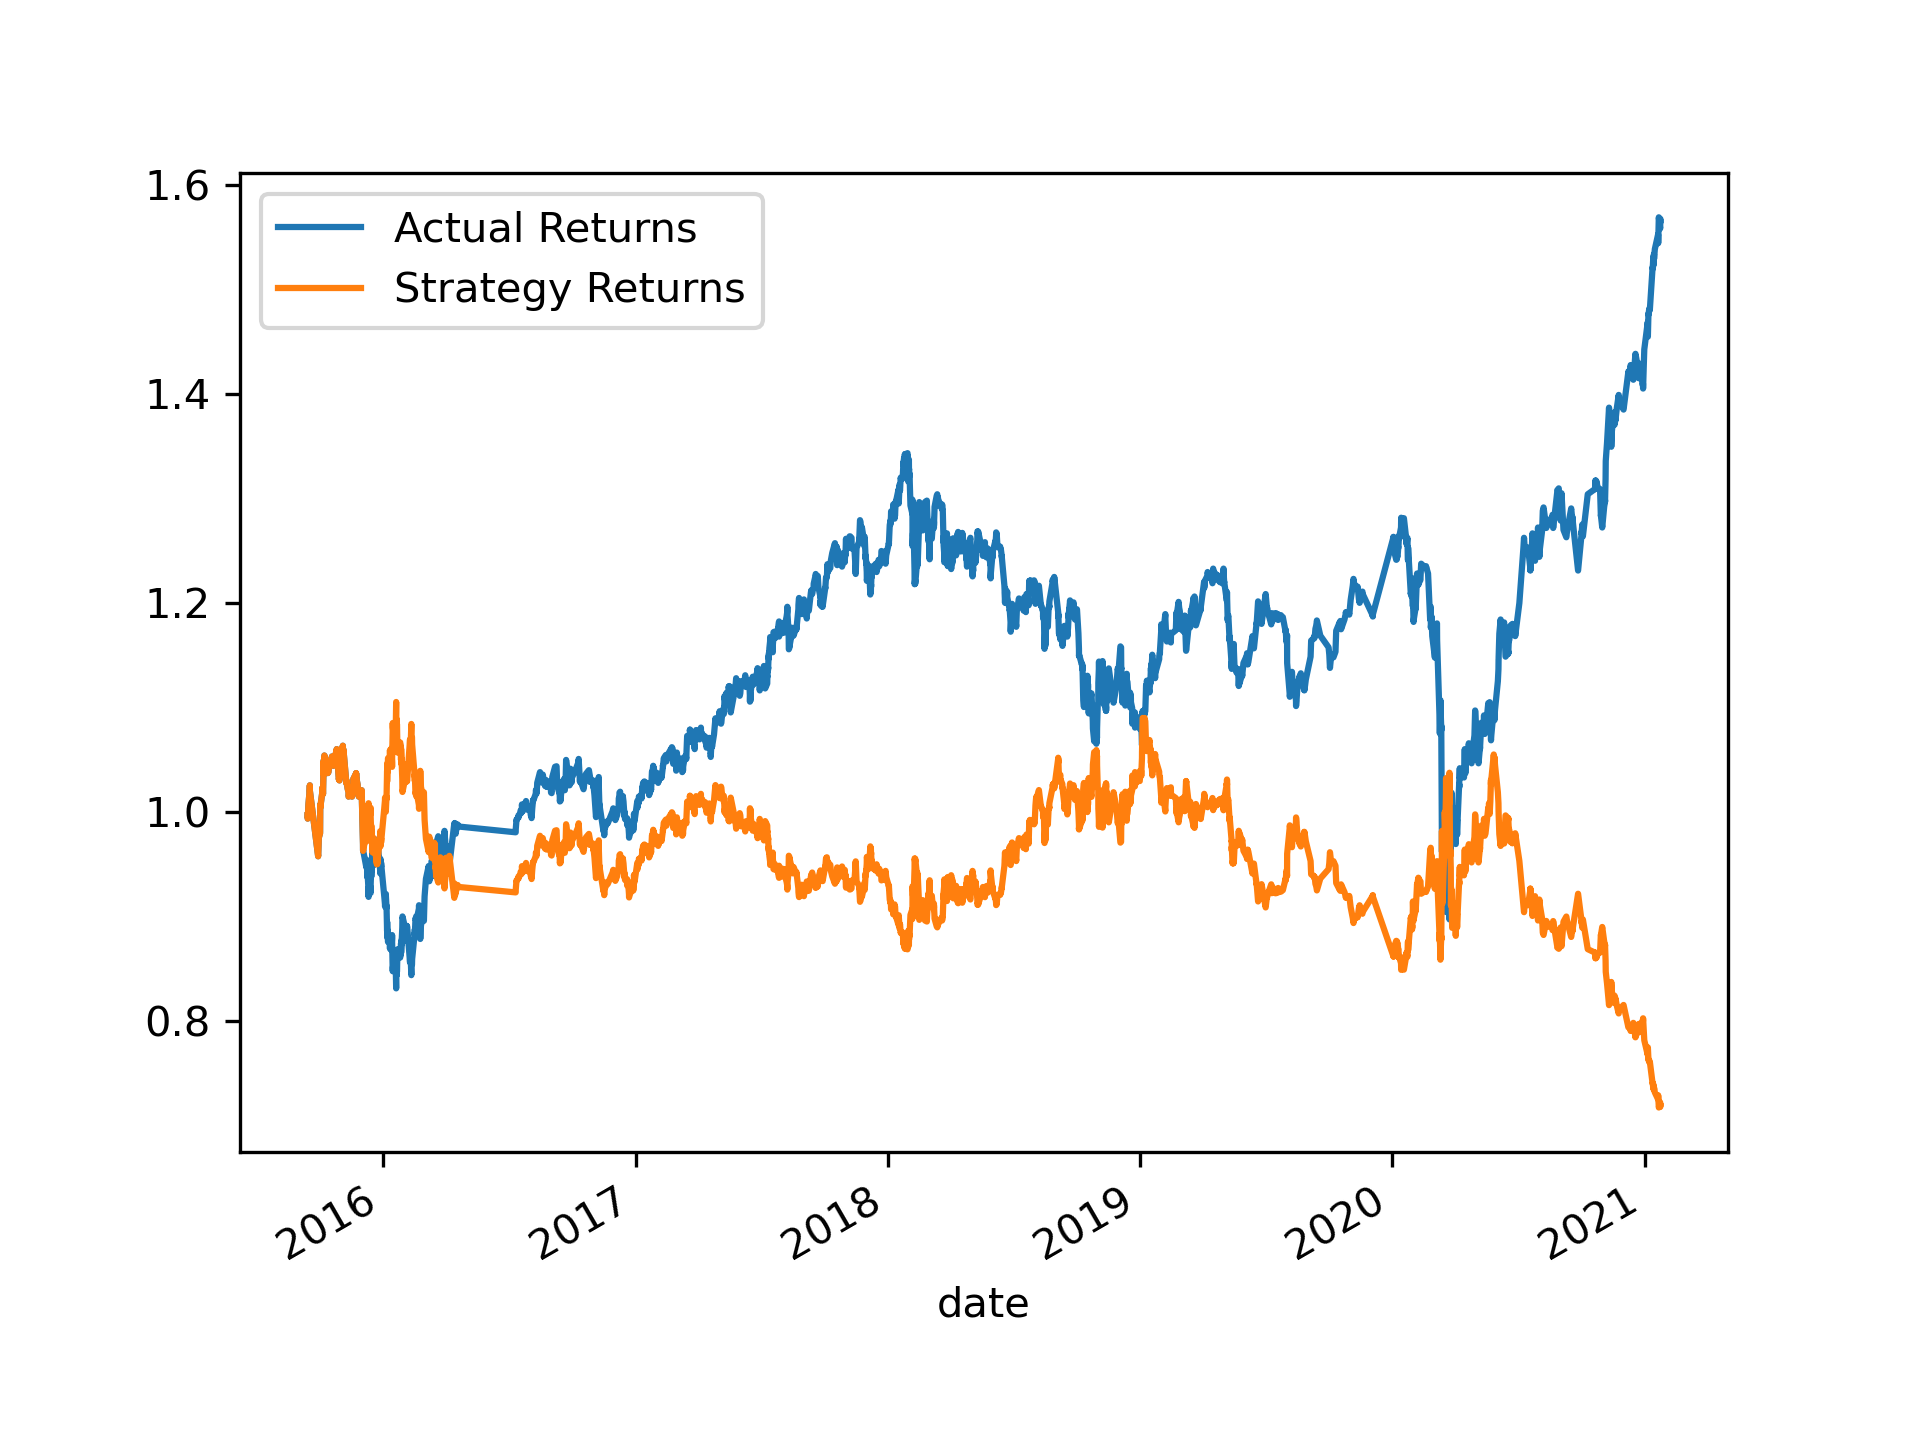
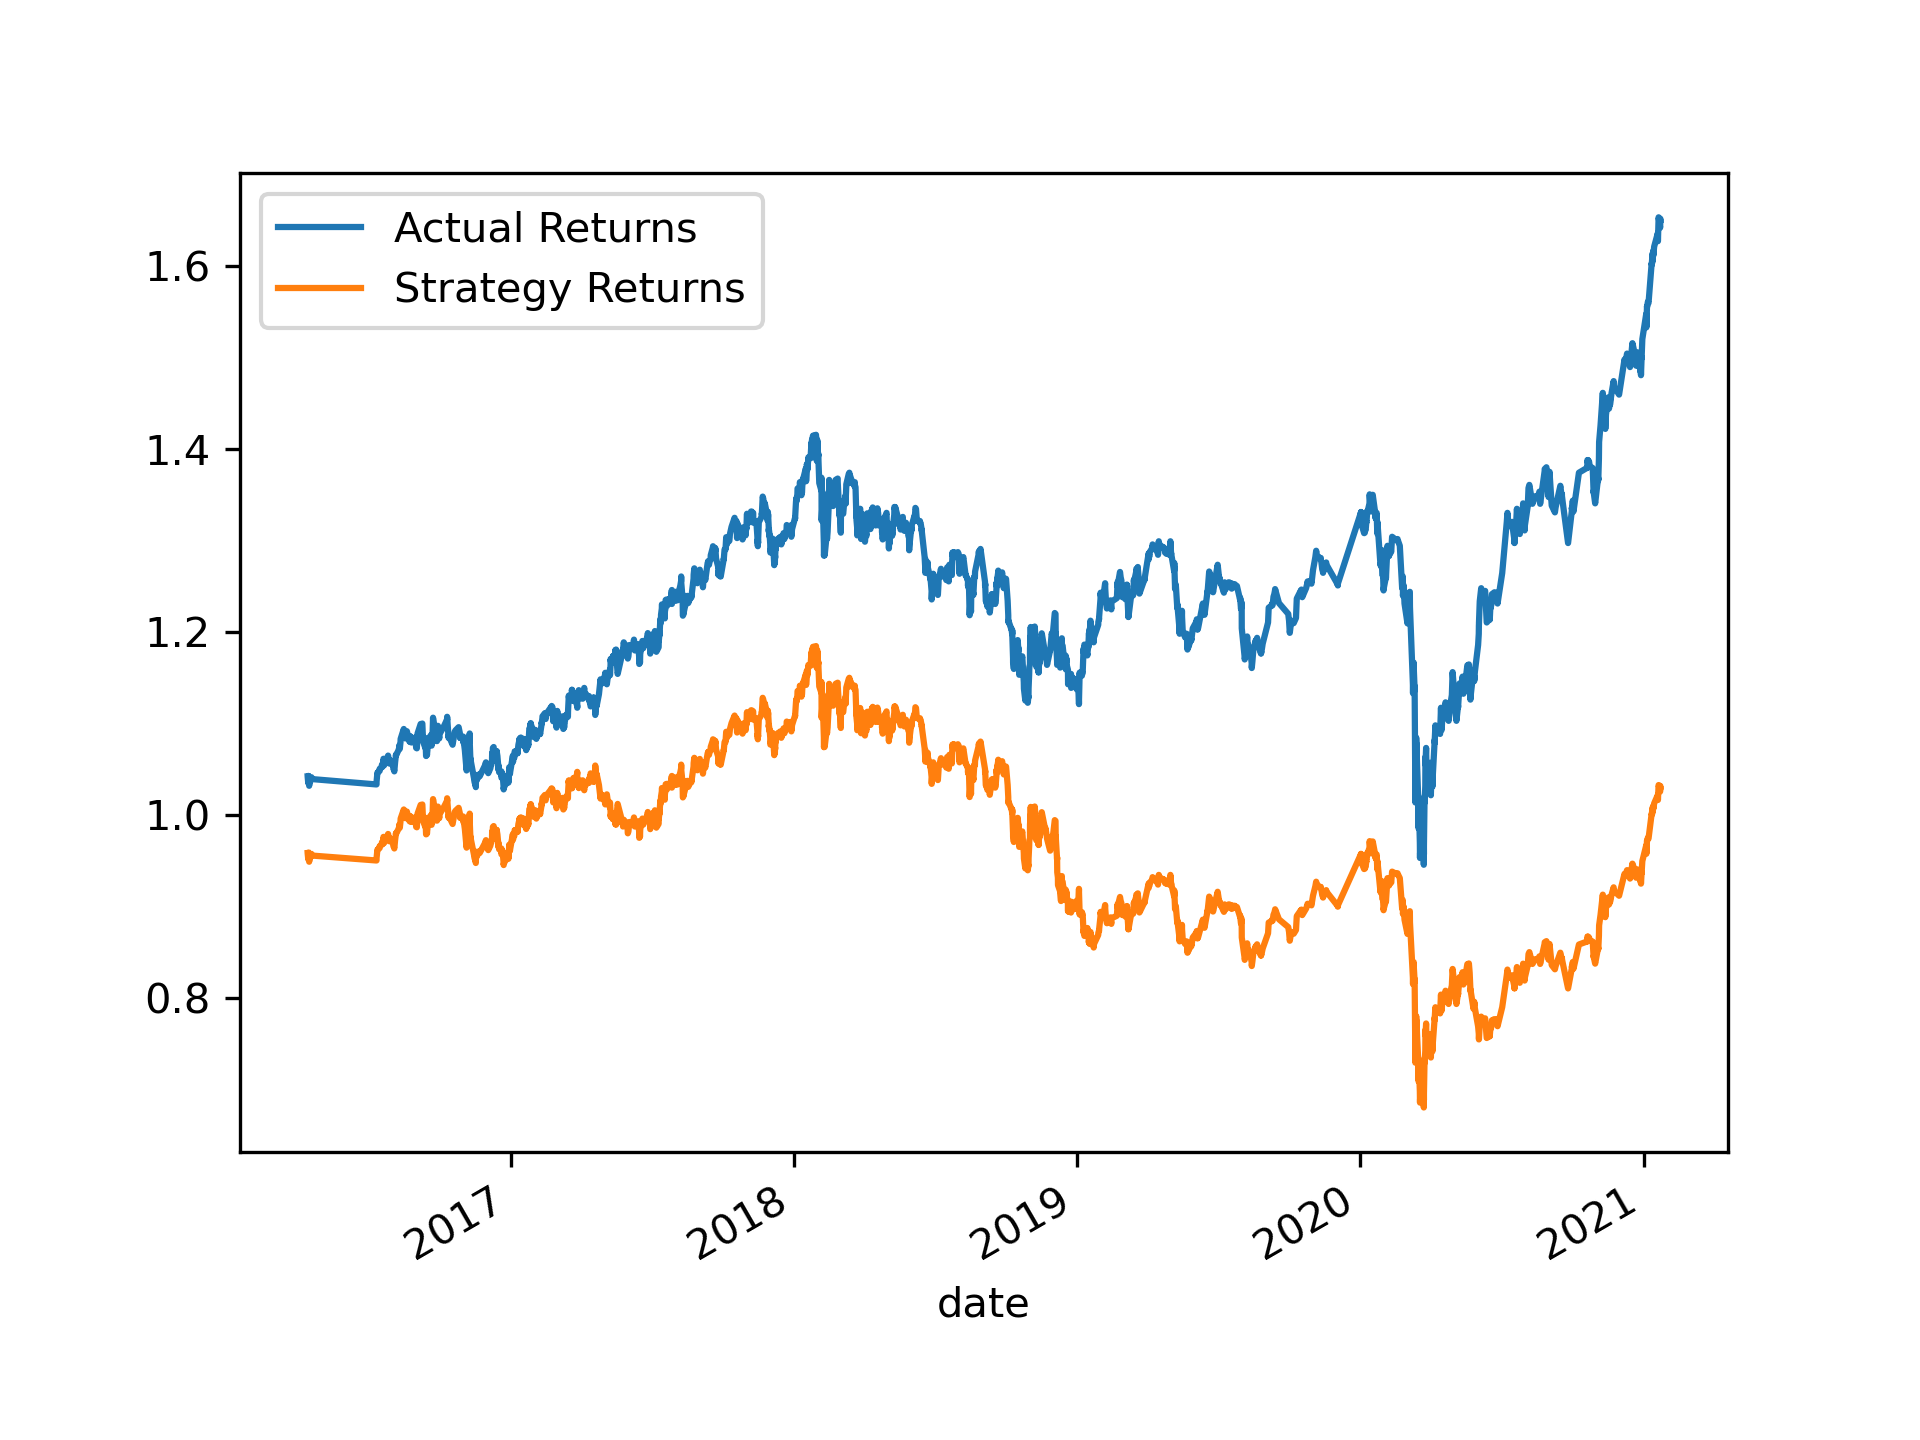
Tune the Baseline Trading Algorithm

diff --git a/README.md b/README.md
@@ -31,6 +31,22 @@ Using the starter code file and the provided csv complete the following steps.
 
 2.	Tune the Baseline Trading Algorithm
 
+Step 1 When tune the training algorithm by adjusting the size of the training dataset to 12 the following result returned.
+
+Step 2  When tune the training algorithm by adjusting the size of the training dataset to 12 the following result returned.
+
+The signal value count affected and returned the following 
+
+
+Strategy Returns to examine performance is not affected
+
+Target set value count is affected and returned the following
+
+Classification report to evaluate the model using the predictions and testing data is affected and returned the following
+
+
+Cumulative return plot that shows the actual returns vs. the strategy returns is affected and returned the following
+
 3.	Evaluate a New Machine Learning Classifier
 ![image](https://github.com/Eyasualemu/Algorithmic_Trading_CH14/assets/44585226/6428d8ce-926d-4af1-bb3e-e179ddb80d23)
 
